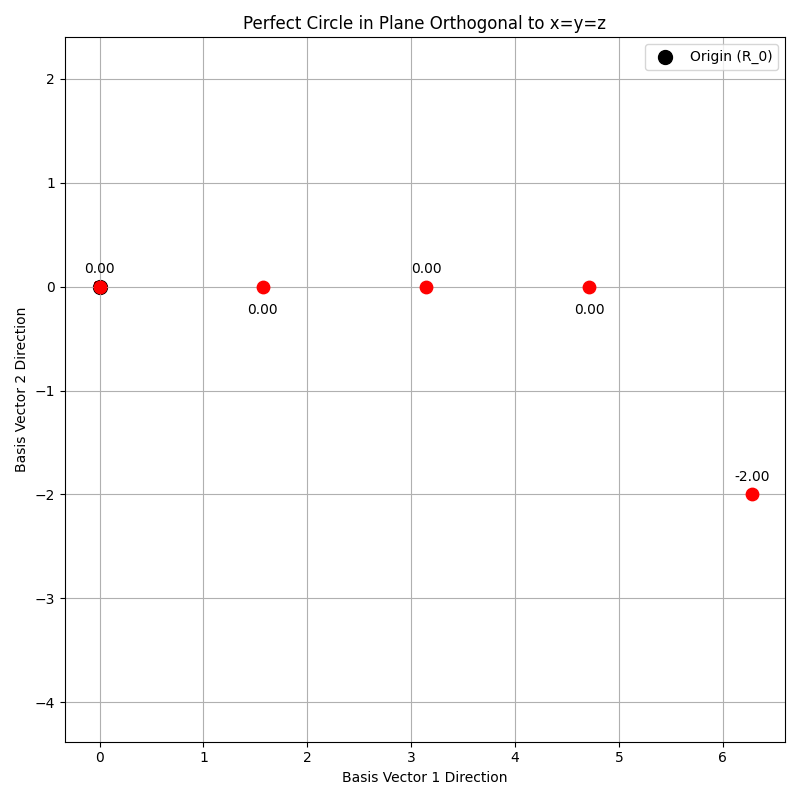
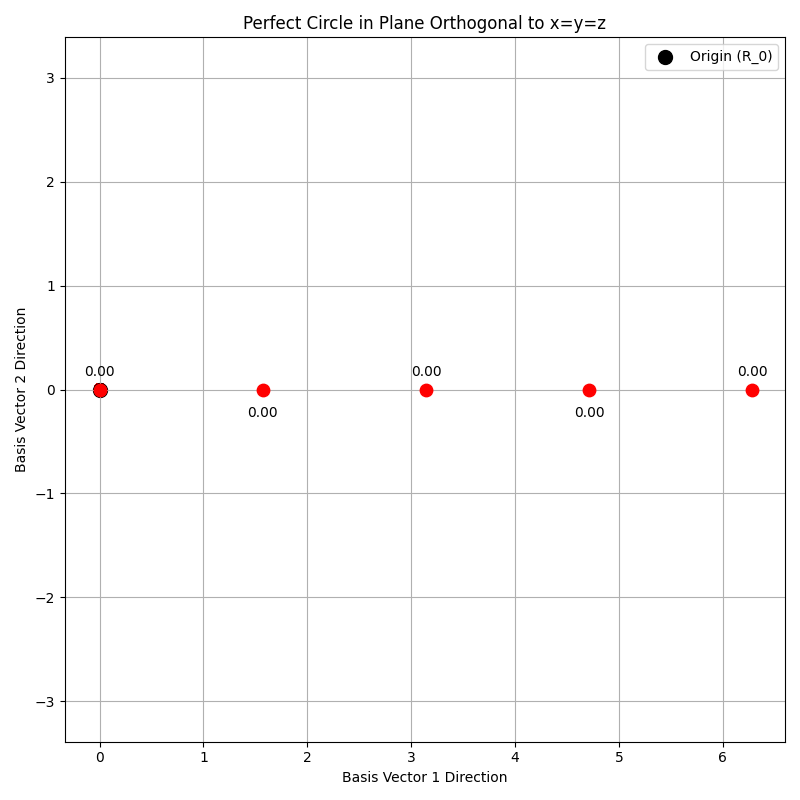
fix: zero out diagonal elements of tau matrix to prevent sudden jumps in gamma at 2π

diff --git a/better_or_not_better_bph.py b/better_or_not_better_bph.py
@@ -531,6 +531,11 @@ def compute_berry_phase(eigvectors_all, theta_vals, continuity_check=False):
                 grad_psi = (psi_next - psi_prev) / delta_theta
                 tau_val = 1j * np.vdot(psi_curr, grad_psi)
                 
+                # Zero out diagonal elements of tau
+                # This is a common practice in Berry phase calculations
+                if n == m:
+                    tau_val = 0.0
+                
                 # Check for unusually large imaginary values at the end of the loop
                 # This prevents the sudden jump in gamma at 2π
                 if i == N-1 and np.abs(np.imag(tau_val)) > 10.0:
